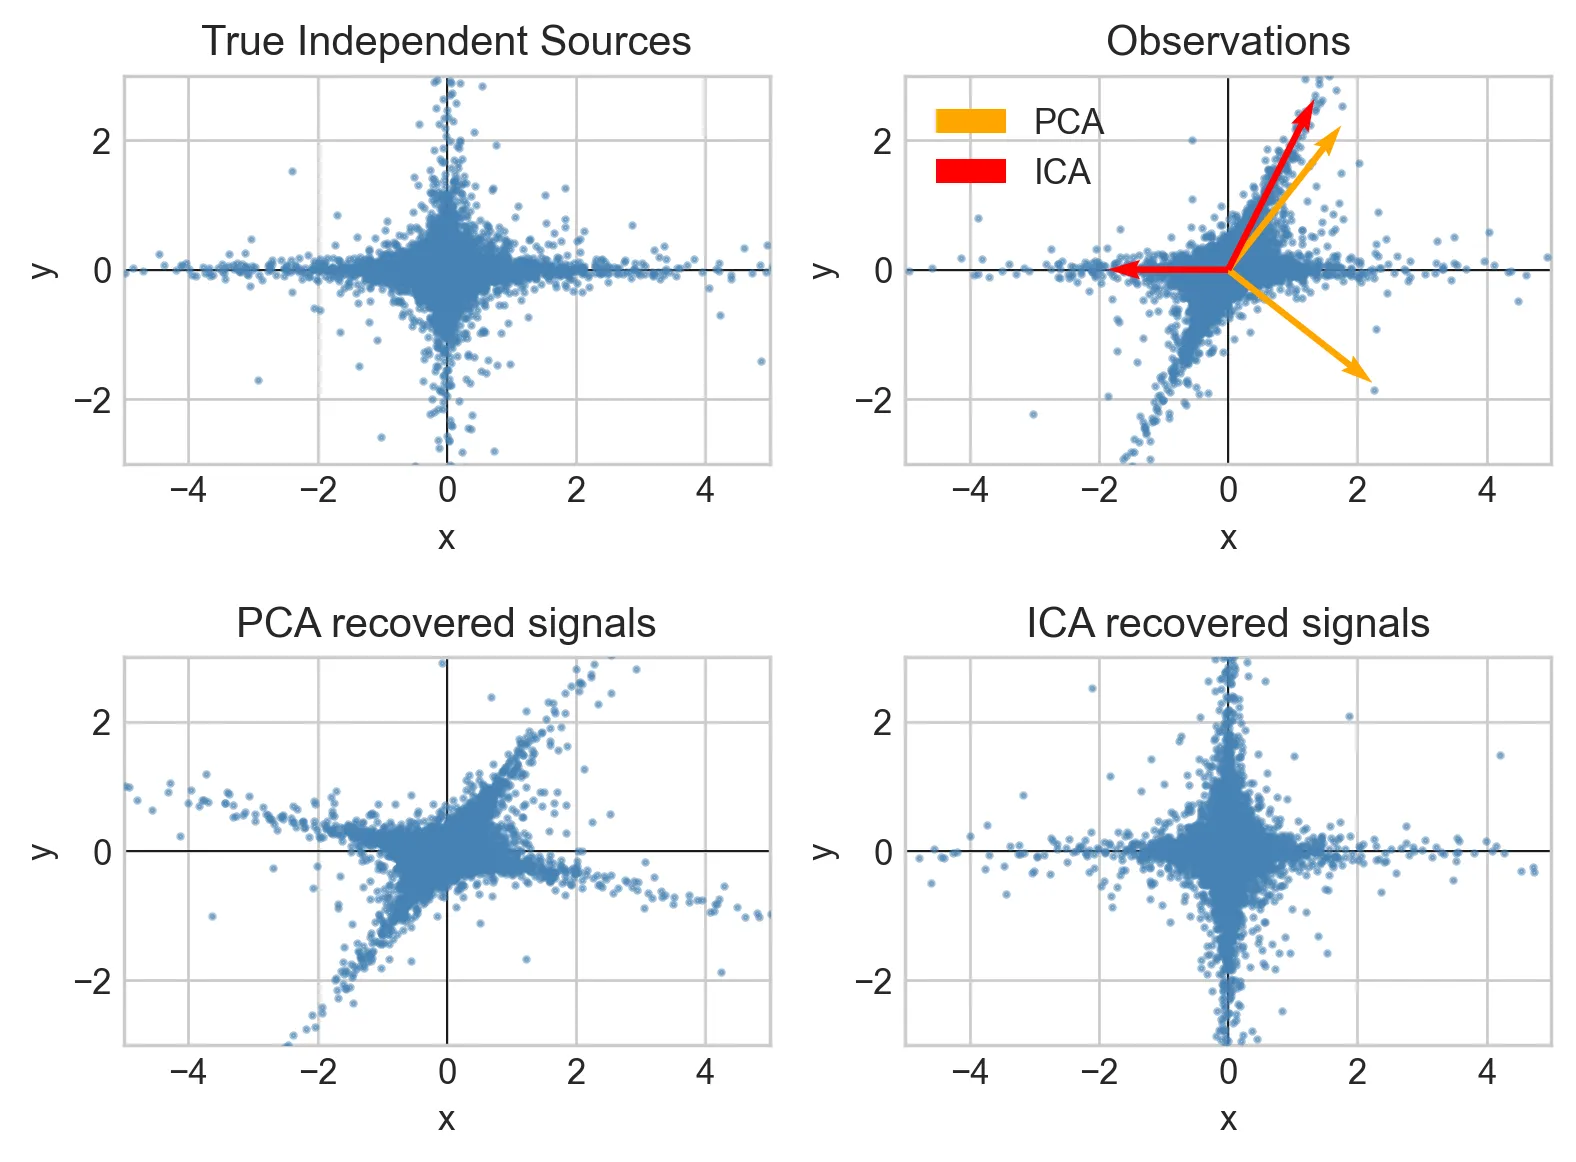
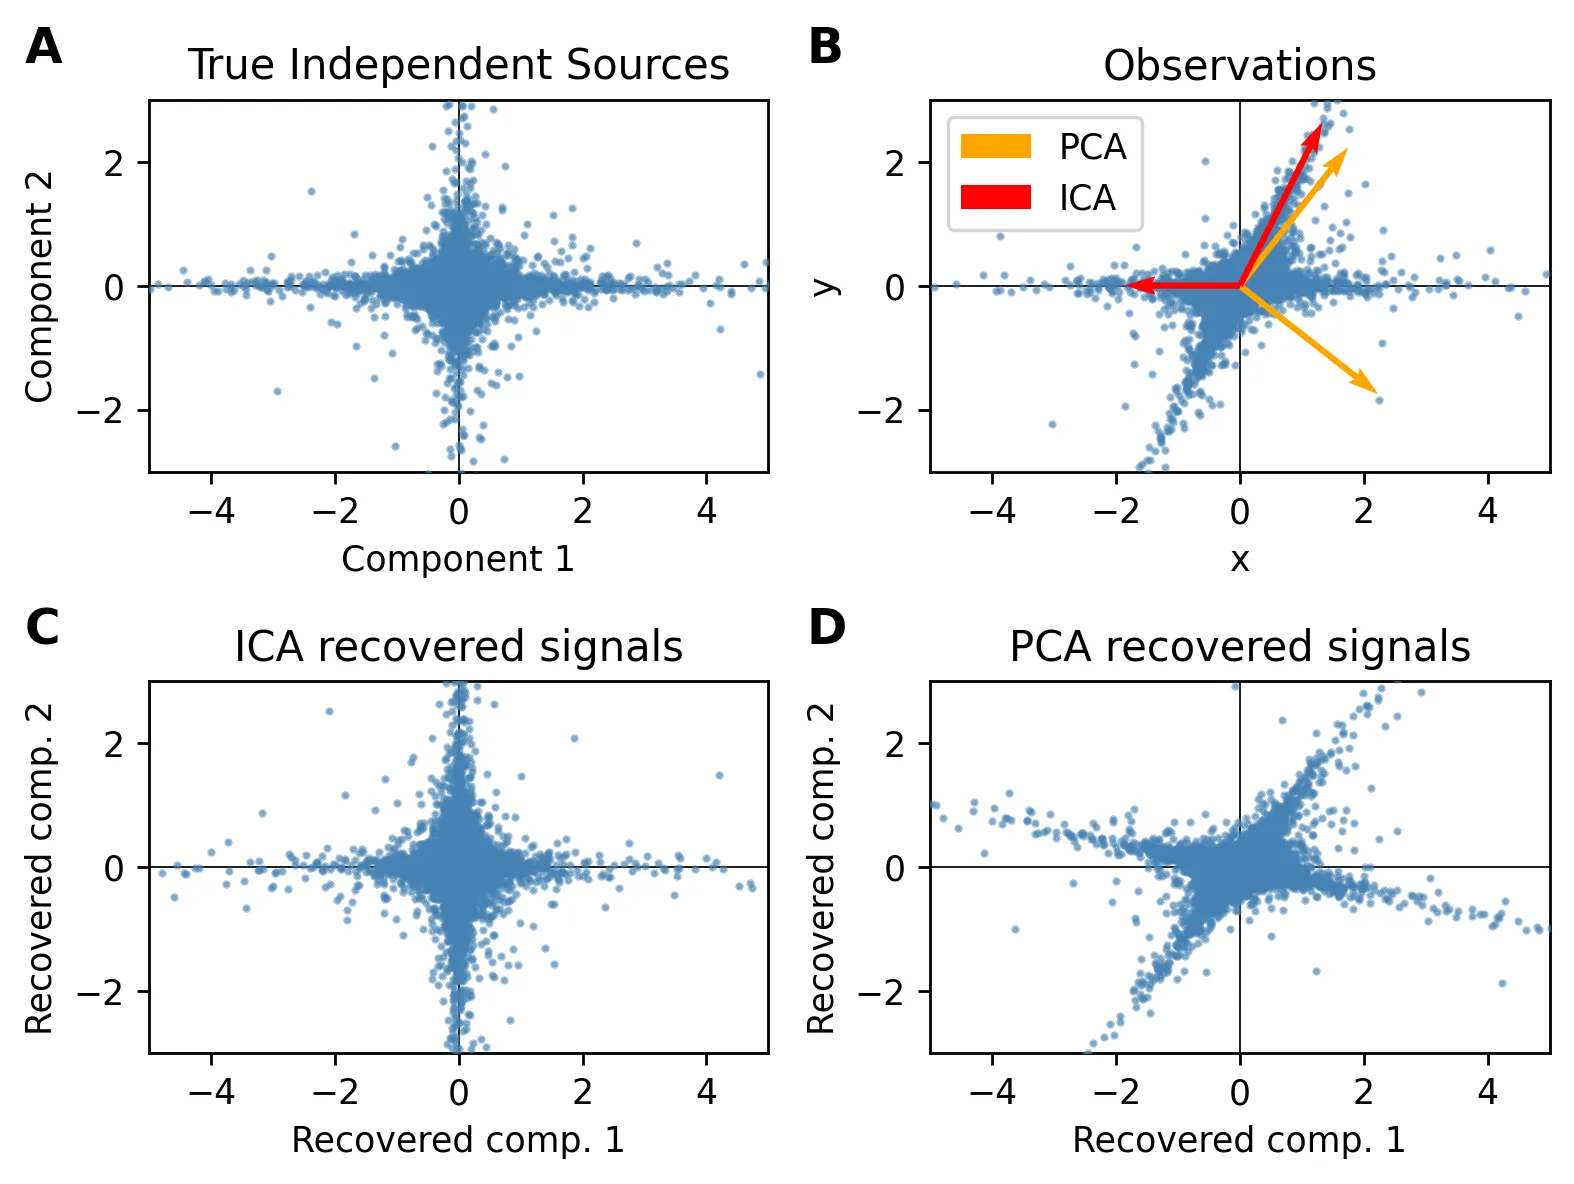
chore: improved cocktail party part

diff --git a/assets/python/2025-09-22-ica/main.py b/assets/python/2025-09-22-ica/main.py
@@ -15,13 +15,16 @@
 # ---
 
 # %% [markdown]
-# # Example from scikit-learn
+# # Examples from scikit-learn
+#
+# ## ICA vs. PCA
 
 # %%
 import sys
 
 import matplotlib.pyplot as plt
 import numpy as np
+from scipy import signal
 from sklearn.decomposition import PCA, FastICA
 
 sys.path.append("../")
@@ -77,28 +80,123 @@ def plot_samples(S, axis_list=None):
 
 
 plt.figure(dpi=300)  # Increased figure size and DPI
+
+
+# Function to add panel labels
+def add_panel_label(label, ax=None):
+    if ax is None:
+        ax = plt.gca()
+    ax.text(-0.2, 1.1, label, transform=ax.transAxes, fontsize=14, fontweight="bold")
+
+
+# Plot A
 plt.subplot(2, 2, 1)
 plot_samples(S / S.std())
 plt.title("True Independent Sources")
+plt.xlabel("Component 1")
+plt.ylabel("Component 2")
+add_panel_label("A")
 
-axis_list = [(pca.components_.T, "orange", "PCA"), (ica.mixing_, "red", "ICA")]
+# Plot B
 plt.subplot(2, 2, 2)
+axis_list = [(pca.components_.T, "orange", "PCA"), (ica.mixing_, "red", "ICA")]
 plot_samples(X / np.std(X), axis_list=axis_list)
 legend = plt.legend(loc="upper left")
 legend.set_zorder(100)
-
 plt.title("Observations")
+plt.xlabel("x")
+plt.ylabel("y")
+add_panel_label("B")
 
+# Plot C
 plt.subplot(2, 2, 3)
-plot_samples(S_pca_ / np.std(S_pca_))
-plt.title("PCA recovered signals")
-
-plt.subplot(2, 2, 4)
 plot_samples(S_ica_ / np.std(S_ica_))
 plt.title("ICA recovered signals")
+plt.xlabel("Recovered comp. 1")
+plt.ylabel("Recovered comp. 2")
+add_panel_label("C")
+
+# Plot D
+plt.subplot(2, 2, 4)
+plot_samples(S_pca_ / np.std(S_pca_))
+plt.title("PCA recovered signals")
+plt.xlabel("Recovered comp. 1")
+plt.ylabel("Recovered comp. 2")
+add_panel_label("D")
 
 plt.subplots_adjust(0.09, 0.04, 0.94, 0.94, 0.26, 0.36)
 plt.tight_layout()
 save_fig(plt.gcf(), "ica_pca_sklearn_example")
 
+# %% [markdown]
+# ## Audio signal
+
 # %%
+np.random.seed(0)
+n_samples = 2000
+time = np.linspace(0, 8, n_samples)
+
+s1 = np.sin(2 * time)  # Signal 1 : sinusoidal signal
+s2 = np.sign(np.sin(3 * time))  # Signal 2 : square signal
+s3 = signal.sawtooth(2 * np.pi * time)  # Signal 3: saw tooth signal
+
+S = np.c_[s1, s2, s3]
+S += 0.2 * np.random.normal(size=S.shape)  # Add noise
+
+S /= S.std(axis=0)  # Standardize data
+# Mix data
+A = np.array([[1, 1, 1], [0.5, 2, 1.0], [1.5, 1.0, 2.0]])  # Mixing matrix
+X = np.dot(S, A.T)  # Generate observations
+
+# %%
+sources = {
+    "Microphone 1": "red",
+    "Microphone 2": "steelblue",
+    "Microphone 3": "orange",
+}
+
+plt.figure(dpi=300, figsize=(8, 2.1))
+for sig, (source, color) in zip(X.T, sources.items()):
+    plt.plot(sig, color=color, label=source)
+plt.legend(loc="lower left")
+plt.xlabel("Time (s)")
+
+plt.tight_layout()
+save_fig(plt.gcf(), "cocktail_microphone_signals")
+
+# %%
+sources = {
+    "Piano": "orange",
+    "Speaker 1": "red",
+    "Speaker 2": "steelblue",
+}
+
+plt.figure(dpi=300, figsize=(8, 2.1))
+for sig, (source, color) in zip(S.T, sources.items()):
+    plt.plot(sig, color=color, label=source)
+plt.legend(loc="lower left")
+plt.xlabel("Time (s)")
+
+plt.tight_layout()
+save_fig(plt.gcf(), "cocktail_source_signals")
+
+# %%
+# Compute ICA
+ica = FastICA(n_components=3, whiten="arbitrary-variance", random_state=0)
+S_ = ica.fit_transform(X)  # Reconstruct signals
+
+sources = {
+    "Component 1": "orange",
+    "Component 3": "steelblue",
+    "Component 2": "red",
+}
+
+plt.figure(dpi=300, figsize=(8, 2.3))
+for sig, (source, color) in zip(S_.T, sources.items()):
+    plt.plot(sig, color=color, label=source)
+plt.legend(loc="lower left")
+plt.title("ICA Recovered Signals")
+plt.xlabel("Time (s)")
+
+plt.tight_layout()
+save_fig(plt.gcf(), "cocktail_ica_signals")

diff --git a/_posts/2025-09-22-ica.md b/_posts/2025-09-22-ica.md
@@ -10,12 +10,14 @@ giscus_comments: true
 related_posts: false
 ---
 
-Deconvolution: simplify multidimensional datasets into a reduced number of factors (usually a linear combination of them). E.g. gene expression can be expressed as the combination of factors that regulate them. One approach to this problem are **matrix factorization**, which aim to decompose our original matrix $$X$$ into a product of matrices. Often the matrix is decomposed into two matrices: $$X = W S$$. $$W$$, the weighting matrix, represents the new basis vectors, which better capture the geometry of the data. $$S$$, the score matrix, represents the coordinates of each datapoint in that new basis.
+When dealing with multidimensional datasets, we often observe that many variables are somewhat redundant. A common assumption is that a relatively small number of latent factors explain the data, which then manifest themselves into the variables that we actually measure. Hence, simplifying multidimensional datasets into a reduced number of factors often help us understand the data better.
+
+One approach to this problem are **matrix factorization**, which aim to decompose our original matrix $$X$$ into a product of matrices. Often the matrix is decomposed into two matrices: $$X = W S$$. $$W$$, the weighting matrix, represents the new basis vectors. Since it's a good descriptor of the geometry of the data, studying $$W$$ can teach us something about it. $$S$$, the score matrix, represents the coordinates of each datapoint in that new basis.
 
 {% include figure.liquid path="assets/img/posts/2025-09-22-ica/change_of_basis.webp" class="img-fluid" %}
 
 <div class="caption">
-    Illustration of a change of basis, such that each basis vector describes one of three subgroups of points. Note that the underlying data remains unchanged.
+    Illustration of a change of basis. The new basis facilitates identifying which point belong to which subgroup. Note that the underlying data remains unchanged.
 </div>
 
 As you would have guessed, what "better capturing the geometry of the data" means exactly is up for debate. But, in general, it involves helping with interpretability, data compression, or parsimony. Unsurprisingly, many solutions have been proposed to this problem. A well-known one is the principal component analysis, or PCA. Geometrically speaking, PCA fits an ellipsoid to the data, and uses the axis of this ellipsoid as the basis for the new space. This is equivalent to PCA's traditional interpretation: capturing the main axes of variation on the data. However, PCA doesn't account for potential substructures of the data. When these are present, if will fail miserably:
@@ -26,35 +28,45 @@ As you would have guessed, what "better capturing the geometry of the data" mean
     Illustration of the principal component analysis on well-behaved data (A) and on data with substructures (B). Note that in the latter case, the new basis is not particularly well-suited to represent the data.
 </div>
 
-This is the case in with **independent component analysis (ICA)** shines.
+This is the case in which **independent component analysis (ICA)** shines.
 
 {% include figure.liquid loading="eager" path="assets/python/2025-09-22-ica/img/ica_pca_sklearn_example.webp" class="img-fluid" %}
 
 <div class="caption">
-    ICA and PCA applied to a synthetic dataset. Adapted from the <a href="https://scikit-learn.org/stable/auto_examples/decomposition/plot_ica_vs_pca.html#sphx-glr-auto-examples-decomposition-plot-ica-vs-pca-py">scikit-learn documentation</a>.
+    ICA and PCA applied to a synthetic dataset. The underlying, independent signals (A) are combined into the observed signal (B) as \(x = c_1 + c_2\), \(y = 2 c_2\). While ICA finds the best basis (B) and recovers the true components (C), PCA cannot (D). Adapted from the <a href="https://scikit-learn.org/stable/auto_examples/decomposition/plot_ica_vs_pca.html#sphx-glr-auto-examples-decomposition-plot-ica-vs-pca-py">scikit-learn documentation</a>.
 </div>
 
 # The cocktail party problem
 
-The ICA is the paradigmatic solution to the cocktail party problem, a famous problem in signal processing. And also, probably, in the Cold War.
+The ICA is the paradigmatic solution to the cocktail party problem, a famous problem in signal processing. And also, I suspect, during the Cold War.
 
 {% include figure.liquid loading="eager" path="assets/img/posts/2025-09-22-ica/cocktail_party.webp" class="img-fluid" %}
 
-The problem reads as follows. A spy wants to snoop on all the conversations happening in a cocktail party. To that end, they strategically place multiple microphones across the room. However, the party is quite busy: many conversations are ongoing, a piano plays in the background, people gulp, waiters trot, glasses clink. Each microphone only captures a mixture of all these signals, which results in mostly incomprehensible gibberish. The spy, thoroughly motivated to separate each of the signals into its individual components, invents ICA.
+The problem reads as follows. A spy wants to snoop on all the conversations happening in a cocktail party.To that end, they strategically place multiple microphones across the room. However, the party is quite busy: many conversations are ongoing, a piano plays in the background, guests gulp, waiters trot, glasses clink.
+
+{% include figure.liquid loading="eager" path="assets/python/2025-09-22-ica/img/cocktail_source_signals.webp" class="img-fluid" %}
+
+Each microphone only captures a mixture of all these signals, which results in mostly incomprehensible gibberish.
+
+{% include figure.liquid loading="eager" path="assets/python/2025-09-22-ica/img/cocktail_microphone_signals.webp" class="img-fluid" %}
+
+The spy, thoroughly motivated to separate each of the signals into its individual components, invents ICA.
+
+{% include figure.liquid loading="eager" path="assets/python/2025-09-22-ica/img/cocktail_ica_signals.webp" class="img-fluid" %}
 
 More formally, each independent component $$j$$ (e.g., the piano playing) is a vector indexed by time ($$s_j(t)$$). Then, each microphone captures a linear combination of all the signals:
 
 $$
-x_i(t) = \sum_j a_ij s_j(t)
+x_i(t) = \sum_j a_{ij} s_j(t)
 $$
 
-where $$a_ij$$ is a constant, representing the relative contribution of each component. For instance, it will be low for components happening far from the microphone. We can arrange the vectors coming from the different microphones into a matrix:
+where $$a_{ij}$$ is a constant, representing the relative contribution of each component. For instance, it will be small for components sourced far from the microphone. We can arrange the vectors coming from the different microphones into a matrix, and think of it as a matrix factorization problem:
 
 $$
 X = AS
 $$
 
-where $$A$$ is the mixing matrix and $$S$$ the independent component matrix. The goal is to estimate both $$A$$ and $$S$$ from $$X$$.
+where $$A$$ is called the mixing matrix and $$S$$ the independent component matrix. The goal is to estimate both $$A$$ and $$S$$ from $$X$$.
 
 # Background
 
